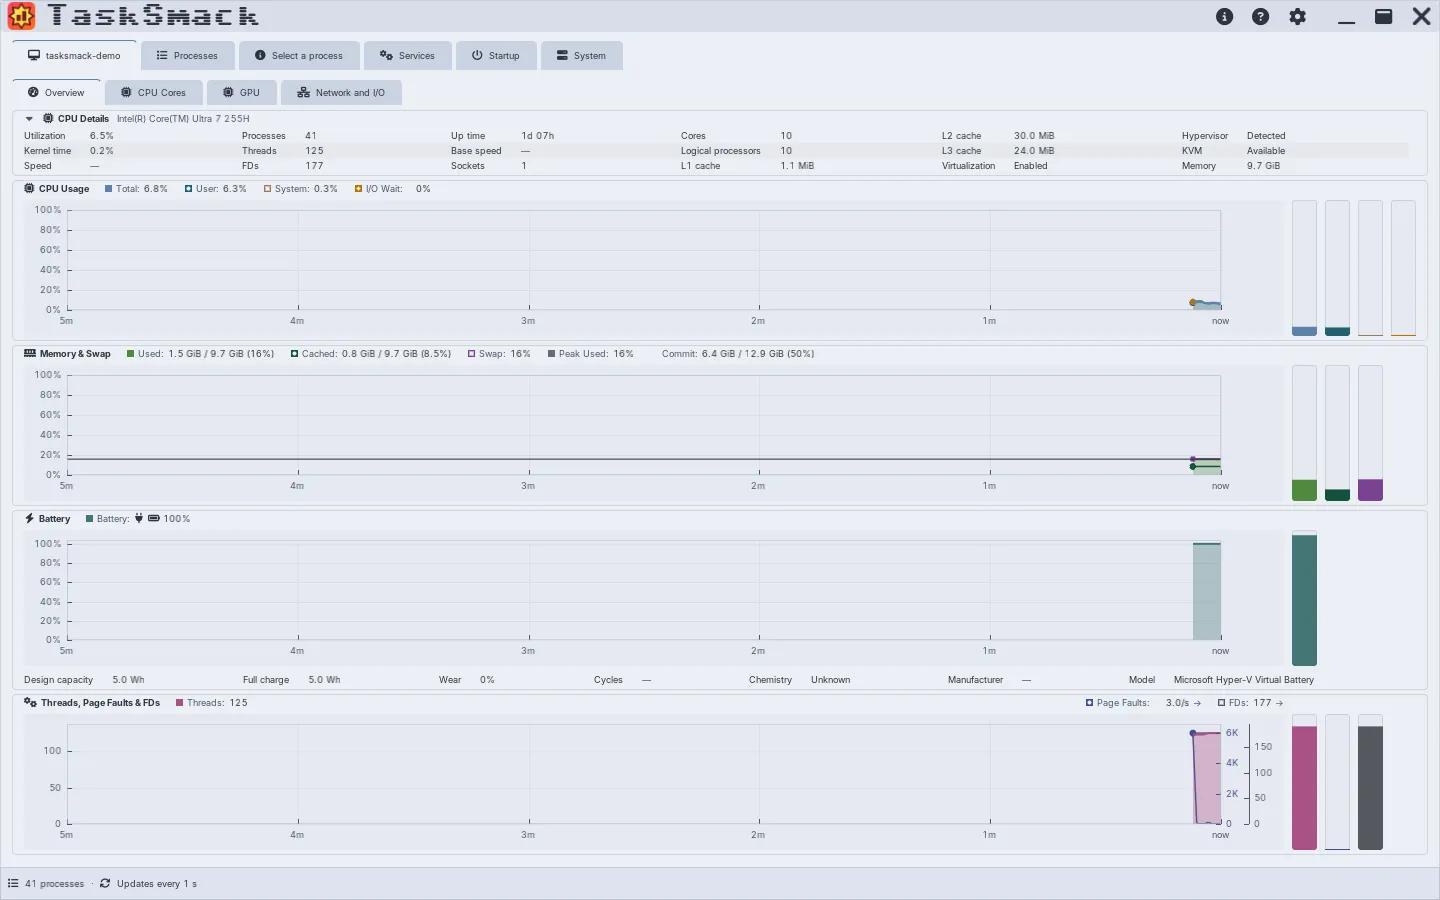
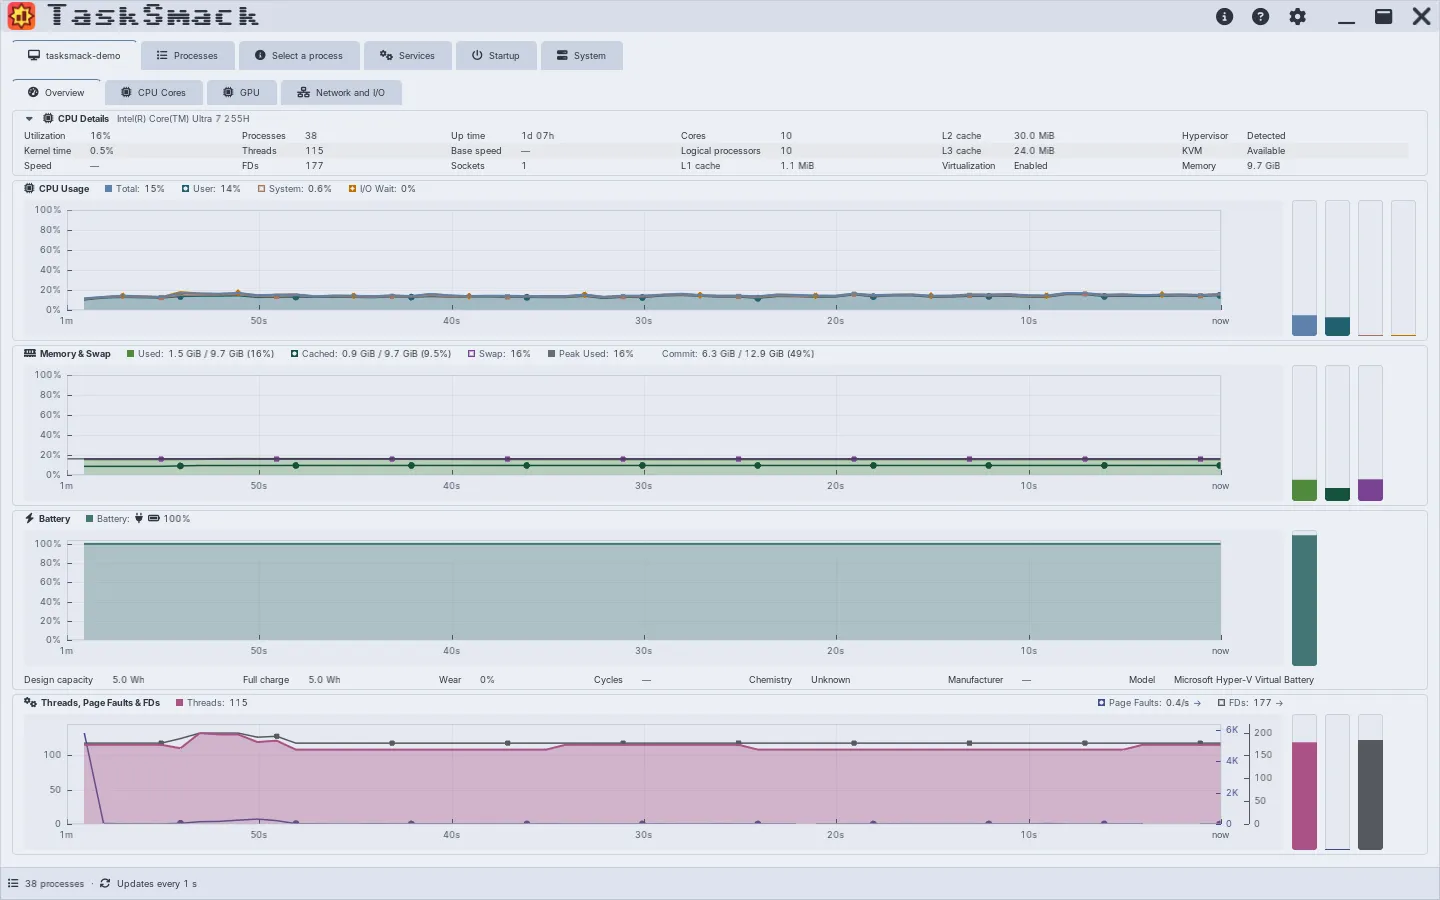
docs(tools): overview-* shots capture a full 60 s history window (#2827)
Review of #2831: at after=8 the Overview's 5-minute charts held data only at "now", so the hero
shots looked empty. The overview-* shots (the six stills and overview-live) now get
`[sampling] history_max_seconds = 60` in the generated config and are captured after 60 s, the
hook's maximum, so the window is full when captured; the other views keep after=8 and
interval_ms stays 1000. Both scripts and the CONTRIBUTING subsection say so, and the per-shot
timeout follows the delay. The seven Linux overview images were recaptured the same way as
before (Xvfb, unshare -r -u with host tasksmack-demo, Command column off) and reviewed.

diff --git a/CONTRIBUTING.md b/CONTRIBUTING.md
@@ -786,7 +786,9 @@ matrix is Overview in six themes (`windows-dark`, `ubuntu-light`, `dracula`, `no
 `monochrome-light`), Processes and System Information in the first dark and the first light theme,
 Process Details (overview, GPU, network) for one process, Services, Startup, About and Help, named
 `<view>-<theme>.webp`, plus `overview-live.webp`, an 8 s / 12 fps animated WebP built from a frame
-sequence. `--webp` / `-WebP` converts with `cwebp -q 80` and `img2webp` from libwebp (`sudo apt install
+sequence. The `overview-*` shots get `[sampling] history_max_seconds = 60` and are captured after 60 s
+(the hook's maximum), so their history charts are full; the other views are captured after 8 s.
+`--webp` / `-WebP` converts with `cwebp -q 80` and `img2webp` from libwebp (`sudo apt install
 webp`; Windows: `winget install Google.Libwebp`); without it the PNGs are copied instead. Both scripts
 print a table of exit code, seconds and bytes per shot and exit non-zero if any shot failed.
 
